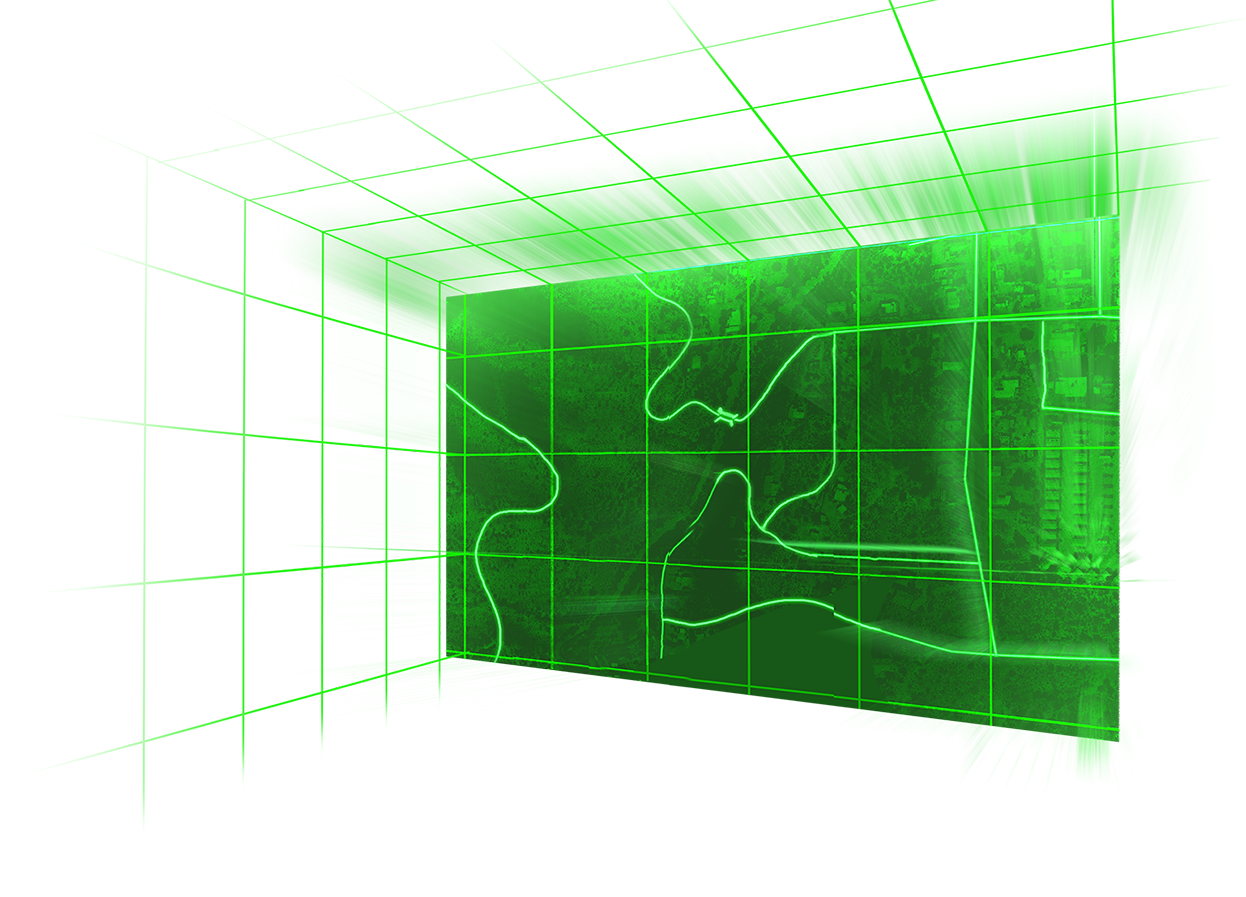
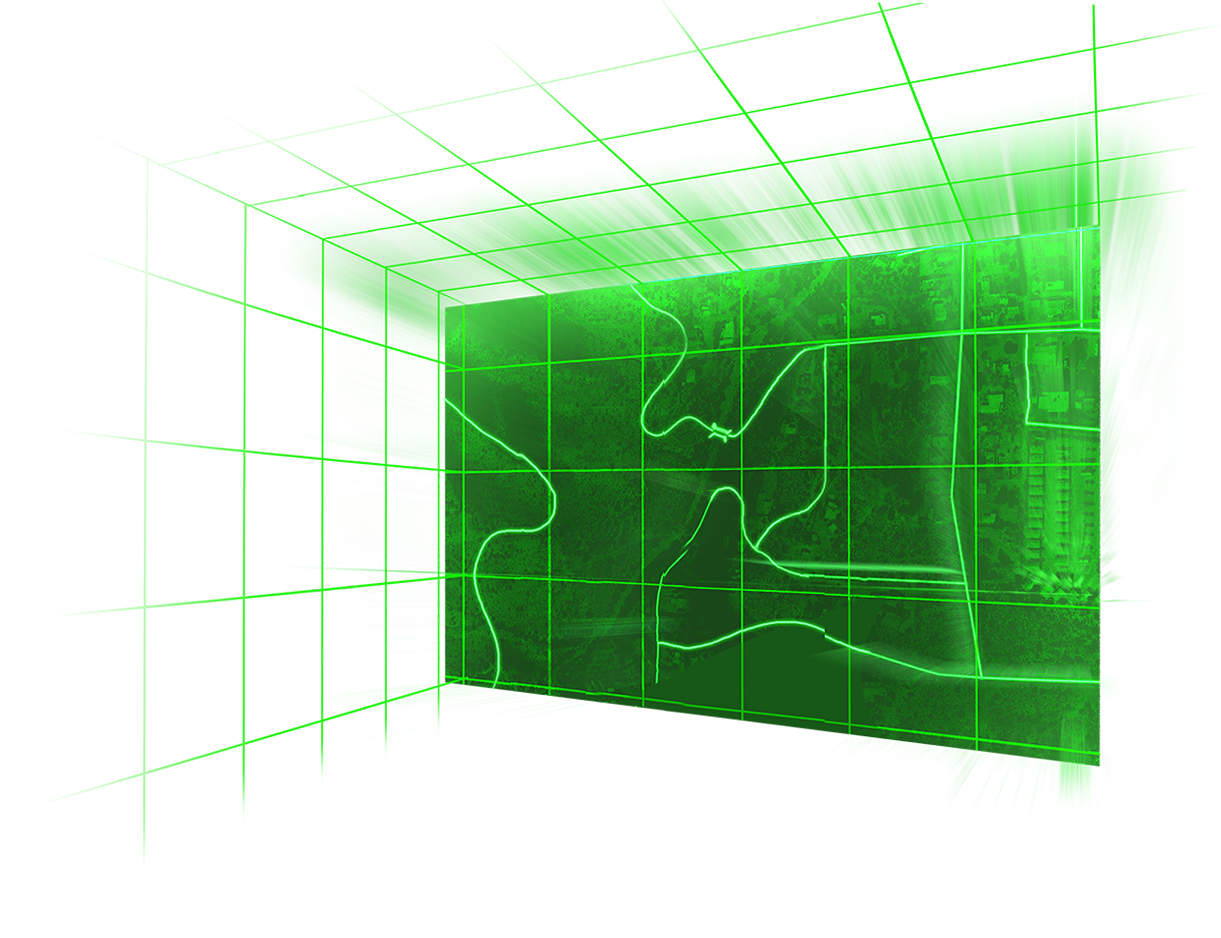
site: сетка для маленького разрешения и логотипы

diff --git a/sublayers_common/static/static_site/css/site_main.css b/sublayers_common/static/static_site/css/site_main.css
@@ -133,24 +133,24 @@ input[type="text"]:focus, input[type='email']:focus, input[type='password']:focu
 .content-start-back.road {
     width: 1793px;
     height: 1010px;
-    top: 171px;
-    left: -1420px;
+    top: 148px;
+    left: -1150px;
     background: transparent url(/static/static_site/img/1366_june/768_road.png) no-repeat 100% 100%;
 }
 
 .content-start-back.road-grid {
-    width: 1246px;
-    height: 897px;
-    top: -149px;
-    left: -483px;
+    width: 1221px;
+    height: 938px;
+    top: -128px;
+    left: -386px;
     background: transparent url(/static/static_site/img/1366_june/768_road+grid.png) no-repeat 100% 100%;
 }
 
 .content-start-back.glitch {
     width: 1631px;
     height: 791px;
-    top: 418px;
-    left: -1309px;
+    top: 412px;
+    left: -1048px;
 }
 
 .content-start-back.glitch canvas {
@@ -290,10 +290,10 @@ input[type="text"]:focus, input[type='email']:focus, input[type='password']:focu
 
 .site-logo {
     position: absolute;
-    width: 162px;
-    height: 150px;
-    top: 70px;
-    left: -137px;
+    width: 269px;
+    height: 250px;
+    top: 26px;
+    left: -200px;
     background: transparent url(/static/static_site/img/1366_june/768_logo.png) no-repeat 100% 100%;
     background-size: contain;
     pointer-events: auto;
